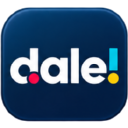
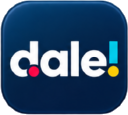
Iconos a sangre: fuera el lienzo blanco de las capturas
Los logotipos eran capturas de los iconos de cada app sobre lienzo blanco y
con sombra. El contenedor redondea, así que la esquina se recortaba, pero el
blanco seguía ahí justo por dentro del radio: cada icono salía con un cerco
claro y sin llenar su cuadro.

Se recortan a sangre. El fondo se busca desde el marco hacia dentro, así que
un blanco interior del propio logotipo —las barras de Bancolombia, el bigote
de Rappi— no se toca; después se comen dos píxeles de halo, que es la sombra
de la captura, y se recorta a la caja del icono. Con el fondo en transparente,
`object-cover` llena el cuadro y el redondeo del contenedor da la silueta.

Dos casos pedían trato aparte:

  · Varias capturas se llevaron una tira del icono de la fila de arriba. Esa
    tira suelta estiraba la caja de recorte y volvía a meter margen por el
    otro lado, así que se conserva solo la mancha grande (uphold pasa de 115
    a 101 píxeles de alto, insights de 121 a 114).
  · iShares trae un cerco gris de cinco píxeles que llega al borde de la
    imagen, sin fondo desde el que erosionarlo: ese se recorta y ya.

ARQ y Ualá son iconos casi blancos, así que el umbral separa el blanco puro
del lienzo (>=248) del casi blanco del logotipo: buscar "claro" a secas se
comía el icono entero.

Claude-Session: https://claude.ai/code/session_01Hk197EWNXGorpUnfBuXiiU

diff --git a/components/ui/institution-badge.tsx b/components/ui/institution-badge.tsx
@@ -35,8 +35,9 @@ export function InstitutionBadge({
         aria-hidden
         loading="lazy"
         decoding="async"
-        // El recorte trae las esquinas del icono en blanco; el redondeo del
-        // contenedor las tapa y deja la silueta que se espera en iOS.
+        // Los archivos vienen recortados a sangre y con el fondo en
+        // transparente, así que `object-cover` llena el cuadro entero y el
+        // redondeo del contenedor da la silueta que se espera en iOS.
         className={cn('shrink-0 object-cover', cls, className)}
       />
     )
